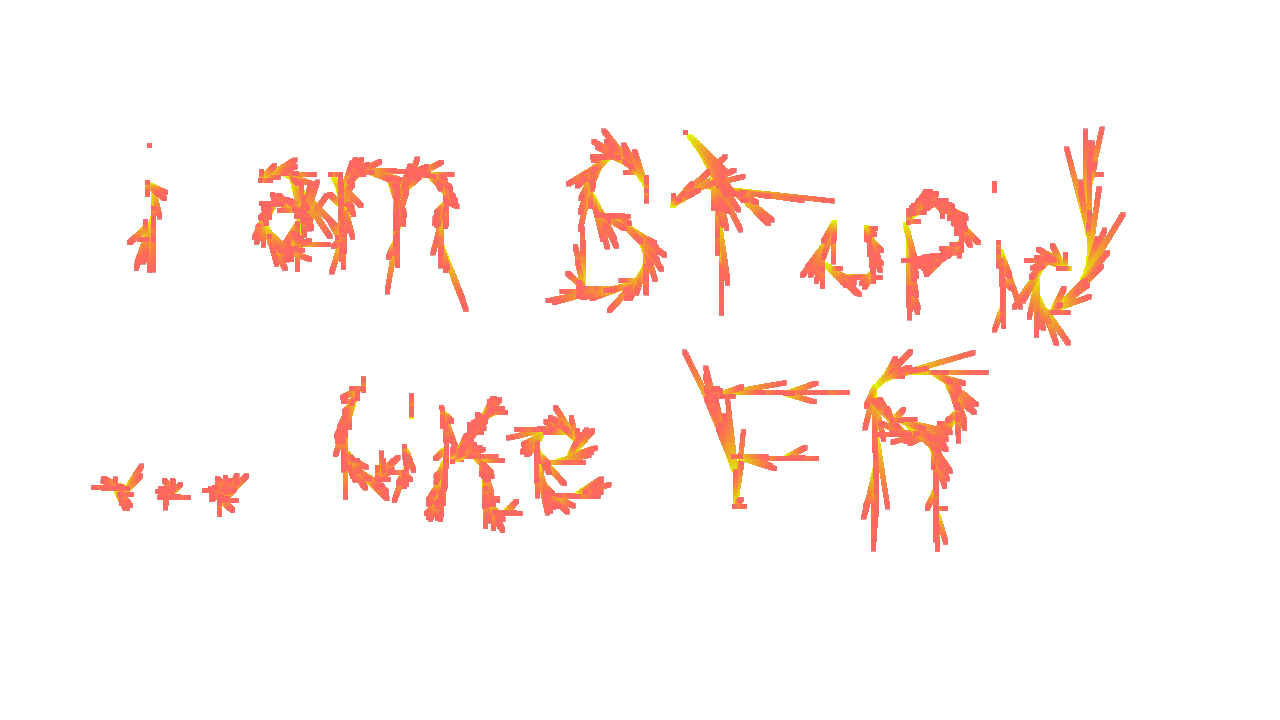
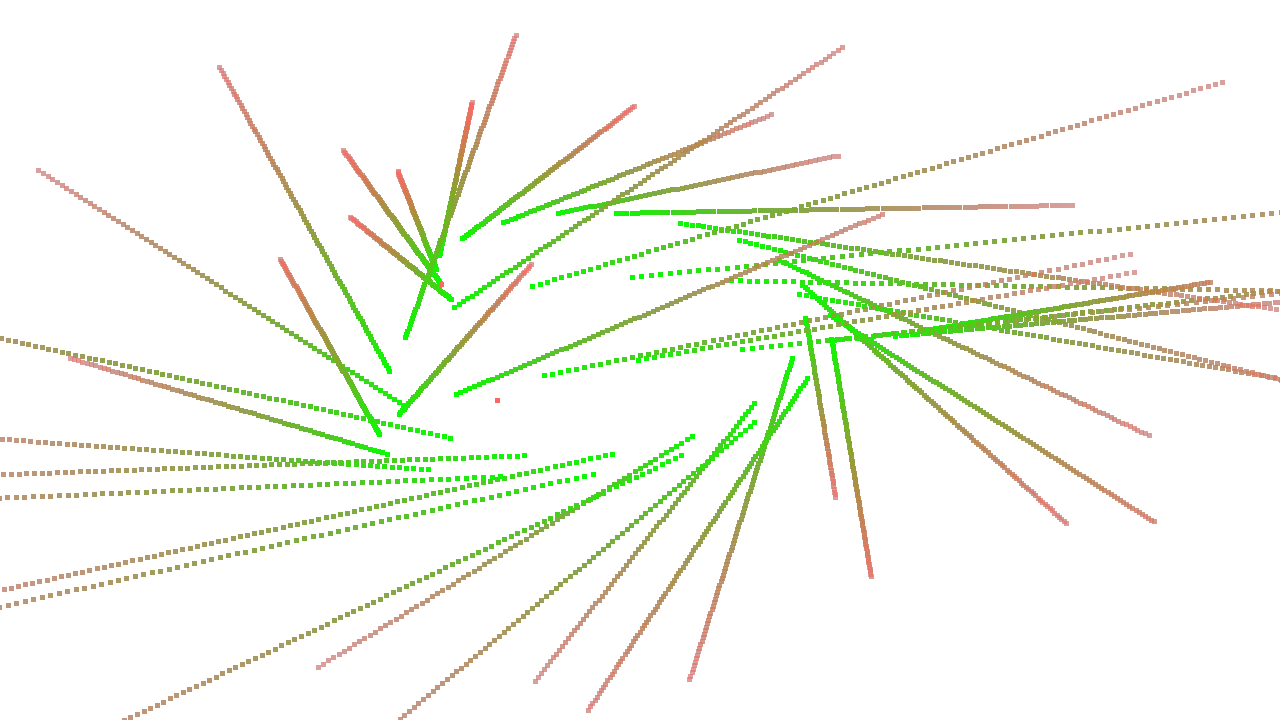
added multiple emmiters support

diff --git a/Program.cs b/Program.cs
@@ -14,47 +14,48 @@ internal static class Program
         ParticleSystem ps = new(10000);
 
         ParticleEmmition emmiter = new(new(100, 1f, 0.5f));
-        emmiter.EmmiterPos = new(WindowProps.WIDTH/2-30,WindowProps.HEIGHT/2-30, 1,1);
+        emmiter.particleListLenght = 200;
+        emmiter.EmmiterPos = new(WindowProps.WIDTH/4, WindowProps.HEIGHT/2, 30, 30);
         emmiter.size = new(5);
         emmiter.sizeVariation = new(0);
         emmiter.colorBegin = Raylib.ColorFromHSV((float)(r.NextDouble()*360), 1, 1);
-        emmiter.colorEnd = Raylib.GetColor(0xFF06009D);
-        //emmiter.velocity = new Vector2(300, -200);
-        //emmiter.velocityVariation = new Vector2(0);
+        emmiter.colorEnd = new();
+        emmiter.velocity = new Vector2(300, -200);
+        emmiter.velocityVariation = new Vector2(-100, 100);
         emmiter.lifeTime = 1f;
-        emmiter.lifeTimeVariation = 1;
+        emmiter.lifeTimeVariation = 15;
         ps.CreateEmmitor(emmiter);
-        RenderTexture2D texture = Raylib.LoadRenderTexture(WindowProps.WIDTH, WindowProps.HEIGHT);
+
+        ParticleEmmition emmiter2 = new(new(100, 1f, 0.5f));
+        emmiter2.particleListLenght = 20;
+        emmiter2.EmmiterPos = new(WindowProps.WIDTH/2, WindowProps.HEIGHT/2, 30, 30);
+        emmiter2.size = new(5);
+        emmiter2.sizeVariation = new(0);
+        emmiter2.colorBegin = Raylib.ColorFromHSV((float)(r.NextDouble()*360), 1, 1);
+        emmiter2.colorEnd = new();
+        emmiter2.velocity = new Vector2(-300, -200);
+        emmiter2.velocityVariation = new Vector2(100, 100);
+        emmiter2.lifeTime = 6f;
+        emmiter2.lifeTimeVariation = -4;
+        ps.CreateEmmitor(emmiter2);
 
         string particleCounter = "";
+
         while (!Raylib.WindowShouldClose())
         {
-            emmiter.EmmiterPos.Position = Raylib.GetMousePosition()-emmiter.EmmiterPos.Size;
-            emmiter.velocity = Raylib.GetMouseDelta()*5;
-            emmiter.velocityVariation = Raylib.GetMouseDelta();
-            if(Raylib.IsMouseButtonDown(MouseButton.Left)) {
-                ps.Emmit();
-            }
-
+            ps.Emmit();
 
             ps.Update();
             particleCounter = ps.particles_active_count().ToString();
-            Raylib.BeginTextureMode(texture);
-                ps.Draw();
-            Raylib.EndTextureMode();
 
             Raylib.BeginDrawing();
                 Raylib.ClearBackground(Color.Black);
-                Raylib.DrawTextureRec(texture.Texture, new(0,0,WindowProps.WIDTH, -WindowProps.HEIGHT), Vector2.Zero, Color.White);
+                ps.Draw();
 
                 Raylib.DrawText("p: "+particleCounter, 0,0,50, Color.White);
                 Raylib.DrawText("fps: "+Raylib.GetFPS().ToString(), 0,50,50, Color.White);
             Raylib.EndDrawing();
         }
-        Image image = Raylib.LoadImageFromTexture(texture.Texture);
-        Raylib.ImageFlipVertical(ref image);
-        Raylib.ExportImage(image, "source/test.png");
-        Raylib.UnloadImage(image);
 
         Raylib.CloseWindow();
     }

diff --git a/ParticleEmmiter.cs b/ParticleEmmiter.cs
@@ -1,8 +1,7 @@
 using Raylib_cs;
 using System.Numerics;
 namespace raylib_particles;
-public class ParticleEmmition(HSV hsvVariation)
-{
+public class ParticleEmmition(HSV hsvVariation) {
     public Rectangle EmmiterPos;
     public Vector2 size, sizeVariation;
     public Color colorBegin;
@@ -11,10 +10,20 @@ public class ParticleEmmition(HSV hsvVariation)
     public float lifeTime, lifeTimeVariation;
     public Vector2 velocity, velocityVariation;
 
-    Random rand = new();
+    public uint particleListIndex = 0;
+    public uint particleListLenght = 1;
+    public int particleActive = 0;
 
-    public void Emmit(Particle[] particles, ref uint listIndex) {
-        Particle p = particles[(int)listIndex-1];
+    Random rand = new();
+    public void setEmmiter(uint index) {
+        particleListIndex = index;
+        particleActive = (int)index;
+    }
+
+    public void Emmit(List<Particle> particles) {
+        particleActive = (particleActive+1) % (int)(particleListIndex+particleListLenght);
+        Particle p = particles[particleActive];
+
         p.active = true;
         p.LifeTime = lifeTime+(float)(rand.NextDouble()*lifeTimeVariation);
         p.remainLifeTime = p.LifeTime;
@@ -32,8 +41,34 @@ public class ParticleEmmition(HSV hsvVariation)
         r.Size = new Vector2((float)(size.X+rand.NextDouble()*sizeVariation.X), (float)(size.Y+rand.NextDouble()*sizeVariation.Y));
         p.rec = r;
 
-        particles[(int)listIndex-1] = p;
+        particles[particleActive] = p;
+    }
 
-        listIndex = ((listIndex) % (uint)particles.Length)+1;
+    public void Update(List<Particle> particles) {
+        for(int count = (int)particleListIndex; count < particleListLenght+particleListIndex; count++) {
+            if(!particles[count].active) continue;
+            var p = particles[count];
+
+            p.remainLifeTime -= Raylib.GetFrameTime();
+            Rectangle r = p.rec;
+            r.Position += p.velocity * new Vector2(Raylib.GetFrameTime());
+            p.rec = r;
+
+            if(p.remainLifeTime <= 0) {
+                p.active = false;
+                particles[count] = p;
+                continue;
+            }
+
+            particles[count] = p;
+        }
+    }
+    public void Draw(List<Particle> particles){
+        for(int count = (int)particleListIndex; count < particleListLenght+particleListIndex; count++) {
+            Particle p = particles[count];
+            if(!p.active) continue;
+            Color lerp = Raylib.ColorLerp(p.colorEnd, p.colorBegin, (float)(p.remainLifeTime/p.LifeTime));
+            Raylib.DrawRectangleRec(p.rec, lerp);
+            }
     }
 }

diff --git a/ParticleSystem.cs b/ParticleSystem.cs
@@ -3,54 +3,43 @@ using System.Numerics;
 namespace raylib_particles;
 public class ParticleSystem
 {
-    public Particle[] particles {get; private set;}
+    public List<Particle> particles {get; private set;} = new();
     public uint listIndex = 0;
+    public uint particleEmmiterIndex = 0;
+    public int c = 0;
     public List<ParticleEmmition> emmiters {get; private set;} = new();
 
     Random rand = new();
 
     public ParticleSystem(uint ammount_particles) {
         listIndex = ammount_particles;
-        particles = new Particle[ammount_particles];
+        particles.EnsureCapacity((int)ammount_particles);
         for(int i = 0; i < ammount_particles; i++) {
-            Particle p = new();
-            particles[i] = p;
+            particles.Add(new());
         }
     }
     public void CreateEmmitor(ParticleEmmition emmitor) {
+        if(particleEmmiterIndex + emmitor.particleListLenght > listIndex){
+            throw new IndexOutOfRangeException("range requested by emmitor is bigger than what ammount of particles");
+        }
+        emmitor.setEmmiter(particleEmmiterIndex);
+        particleEmmiterIndex += emmitor.particleListLenght;
         emmiters.Add(emmitor);
     }
 
     public void Update() {
-        for(int count = 0; count < particles.Length; count++) {
-            var p = particles[count];
-            if(!p.active) continue;
-
-
-            p.remainLifeTime -= Raylib.GetFrameTime();
-            Rectangle r = p.rec;
-            r.Position += p.velocity * new Vector2(Raylib.GetFrameTime());
-            p.rec = r;
-
-            if(p.remainLifeTime <= 0) {
-                p.active = false;
-                particles[count] = p;
-                continue;
-            }
-
-            particles[count] = p;
+        foreach(ParticleEmmition emiter in emmiters) {
+            emiter.Update(particles);
         }
     }
     public void Draw() {
-        foreach(Particle p in particles) {
-            if(!p.active) continue;
-            Color lerp = Raylib.ColorLerp(p.colorEnd, p.colorBegin, (float)(p.remainLifeTime/p.LifeTime));
-            Raylib.DrawRectangleRec(p.rec, lerp);
+        foreach(ParticleEmmition emmit in emmiters) {
+            emmit.Draw(particles);
         }
     }
     public void Emmit() {
         foreach(ParticleEmmition m in emmiters) {
-            m.Emmit(particles, ref listIndex);
+            m.Emmit(particles);
         }
     }
     public int particles_active_count() {
